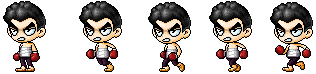
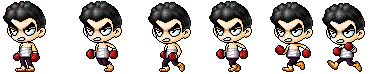
Player & Map Behavior modified

diff --git a/damath/character/Character.java b/damath/character/Character.java
@@ -17,10 +17,12 @@ import javafx.scene.shape.Rectangle;
  *
  */
 public abstract class Character extends Pane implements Updatable {
+	public static boolean once = true;
 	protected ImageView characterView;
 	protected String name;
 	protected double speed;
 	protected double attackPower;
+	protected double jumpPower;
 	protected double hp;
 	protected int level;
 	protected boolean allowToMove;
@@ -60,6 +62,7 @@ public abstract class Character extends Pane implements Updatable {
 		setLevel(1);
 		setAllowToMove(true);
 		setAllowToJump(false);
+		setJumpPower(10);
 		
 		characterView.setFocusTraversable(true);
 		this.getChildren().addAll(characterView, head, body, feet);
@@ -72,10 +75,12 @@ public abstract class Character extends Pane implements Updatable {
 		setName("Unknown");
 		setSpeed(5.0);
 		setAttackPower(20.0);
+		setJumpPower(10);
 		setHP(100.0);
 		setLevel(1);
 		setAllowToMove(true);
 		setAllowToJump(false);
+		setJumpPower(10);
 		
 		characterView.setFocusTraversable(true);
 		this.getChildren().add(characterView);
@@ -91,6 +96,7 @@ public abstract class Character extends Pane implements Updatable {
 		setLevel(1);
 		setAllowToMove(true);
 		setAllowToJump(false);
+		setJumpPower(10);
 		
 		characterView.setFocusTraversable(true);
 		this.getChildren().add(characterView);
@@ -106,6 +112,7 @@ public abstract class Character extends Pane implements Updatable {
 		setLevel(1);
 		setAllowToMove(true);
 		setAllowToJump(false);
+		setJumpPower(10);
 		
 		characterView.setFocusTraversable(true);
 		this.getChildren().add(characterView);
@@ -159,6 +166,10 @@ public abstract class Character extends Pane implements Updatable {
 	
 	public void isFalling(boolean falling) {
 		this.falling = falling;
+	}
+	
+	public void setJumpPower(double jumpPower) {
+		this.jumpPower = jumpPower;
 	}
 	
 	
@@ -219,6 +230,10 @@ public abstract class Character extends Pane implements Updatable {
 		return falling;
 	}
 	
+	public double getJumpPower() {
+		return jumpPower;
+	}
+	
 
 	
 	
@@ -228,4 +243,5 @@ public abstract class Character extends Pane implements Updatable {
 	public abstract void update();
 	public abstract void handleSprite();
 	public abstract void resetPosition();
+	public abstract void jumpPosition();
 }

diff --git a/damath/maps/Town.java b/damath/maps/Town.java
@@ -37,7 +37,28 @@ public class Town extends Map {
 		
 		addCollisionObject(floor, 0, 545);
 		
-		addCollisionObject(new CollisionBox(crateImg), 0, 500);
+		addCollisionObject(new CollisionBox(crateImg),100, 500);
+		addCollisionObject(new CollisionBox(crateImg),151, 500);
+		addCollisionObject(new CollisionBox(crateImg),151, 449);
+		addCollisionObject(new CollisionBox(crateImg),202, 500);
+		
+		CollisionBox box1 = new CollisionBox(crateImg);
+		CollisionBox box2 = new CollisionBox(crateImg);
+		box1.getUpBar().setPushDirection(CollisionObject.NONE);
+		box2.getUpBar().setPushDirection(CollisionObject.NONE);
+		
+		
+		addCollisionObject(new CollisionBox(crateImg),500, 500);
+		addCollisionObject(new CollisionBox(crateImg),551, 500);
+		addCollisionObject(new CollisionBox(crateImg),551, 449);
+		addCollisionObject(new CollisionBox(crateImg),602, 500);
+		addCollisionObject(new CollisionBox(crateImg),602, 449);
+		addCollisionObject(box1,653, 500);
+		addCollisionObject(box2,653, 449);
+		addCollisionObject(new CollisionBox(crateImg),653, 398);
+		addCollisionObject(new CollisionBox(crateImg),753, 398);
+	
+		
 	}
 
 	@Override

diff --git a/damath/character/PlayerBehavior.java b/damath/character/PlayerBehavior.java
@@ -41,23 +41,27 @@ public class PlayerBehavior implements Behavior {
 			// IF PLAYER PRESS THE 'MOVE_RIGHT_KEY':
 			if(player.getMoveKeyPressed().equals(moveRightKey) && playerChar.getAllowToMove()) {
 				playerChar.setTranslateX(playerChar.getTranslateX() + playerChar.getSpeed()/Game.FPS);
-				playerChar.handleSprite();
+				if(playerChar.getAllowToJump())
+					playerChar.handleSprite();
 			}
 			
 			// ELSE IF PLAYER PRESS THE 'MOVE_LEFT_KEY':
 			else if(player.getMoveKeyPressed().equals(moveLeftKey) && playerChar.getAllowToMove()) {
 				playerChar.setTranslateX(playerChar.getTranslateX() - playerChar.getSpeed()/Game.FPS);
-				playerChar.handleSprite();
+				if(playerChar.getAllowToJump())
+					playerChar.handleSprite();
 			}			
 		}	
 		
 		if(player.getJumpKeyPressed()!= null) {
 			if(player.getJumpKeyPressed().equals(jumpKey) && playerChar.getAllowToJump()) {
+				Character.once = true;
 				jumping = true;
 			}
 		}
 		
 		if(jumping) {
+			playerChar.jumpPosition();
 			playerChar.isFalling(false);
 			jump(playerChar, 250, 10);
 		}

diff --git a/damath/tools/CollisionBox.java b/damath/tools/CollisionBox.java
@@ -91,6 +91,22 @@ public class CollisionBox extends Pane implements CollisionObject {
 		this.gravity = gravity;
 	}
 	
+	public CollisionBar getLeftBar() {
+		return leftBar;
+	}
+	
+	public CollisionBar getRightBar() {
+		return rightBar;
+	}
+	
+	public CollisionBar getUpBar() {
+		return upBar;
+	}
+	
+	public CollisionBar getDownBar() {
+		return downBar;
+	}
+	
 
 	@Override
 	public void buildCollisionWith(Character playerChar) {
@@ -113,14 +129,20 @@ public class CollisionBox extends Pane implements CollisionObject {
 		}
 		
 		// PLAYER HITS UP BAR
-		if(playerFeet.intersects(upBounds)) {
+		if(playerFeet.intersects(upBounds) && playerChar.isFalling()) {
 			upBar.buildCollisionWith(playerChar);
 			playerChar.setAllowToJump(true);
+			if(Character.once == true) {
+				Character.once = false;
+				playerChar.resetPosition();
+			}
+			
 		}
 		
 		// PLAYER HITS DOWN BAR
 		else if(playerHead.intersects(downBounds)){
-			upBar.buildCollisionWith(playerChar);
+			downBar.buildCollisionWith(playerChar);
+			
 		}
 	}
 }

diff --git a/damath/character/Zipangu.java b/damath/character/Zipangu.java
@@ -27,6 +27,9 @@ public class Zipangu extends Character implements Player{
 			new Rectangle2D(265, 0, SPRITE_WIDTH, SPRITE_HEIGHT),
 	};
 	
+	private final Rectangle2D jumpFrame = 
+			new Rectangle2D(319, 0, SPRITE_WIDTH, SPRITE_HEIGHT);
+	
 	private int frameCount = 0;
 	private final int TIME_COUNT = (int)(1000/(getSpeed()*1.2));
 	private int time = TIME_COUNT;
@@ -40,6 +43,7 @@ public class Zipangu extends Character implements Player{
 	public Zipangu () {
 		zipanguImg = 
 				new Image(Zipangu.class.getResourceAsStream("../images/zipangu.png"));
+		
 		
 		rightScale = -1;
 		leftScale = 1;
@@ -120,6 +124,13 @@ public class Zipangu extends Character implements Player{
 	@Override
 	public void setJumpKeyPressed(KeyCode jumpKeyPressed) {
 		this.jumpKeyPressed = jumpKeyPressed;
+		
+	}
+
+
+	@Override
+	public void jumpPosition() {
+		characterView.setViewport(jumpFrame);
 		
 	}
 

diff --git a/damath/tools/CollisionBar.java b/damath/tools/CollisionBar.java
@@ -59,7 +59,7 @@ public final class CollisionBar extends Rectangle implements CollisionObject {
 			break;
 			
 		case PUSH_DOWN:
-			playerChar.setTranslateY(playerChar.getTranslateY() + gravity/Game.FPS);
+			playerChar.setTranslateY(playerChar.getTranslateY() + playerChar.getJumpPower()/Game.FPS);
 			break;
 		}
 		

diff --git a/damath/interfaces/CollisionObject.java b/damath/interfaces/CollisionObject.java
@@ -2,6 +2,7 @@ package damath.interfaces;
 import damath.character.Character;
 
 public interface CollisionObject {
+	public static final int NONE = -1;
 	public static final int PUSH_LEFT = 0;
 	public static final int PUSH_RIGHT = 1;
 	public static final int PUSH_UP = 2;
